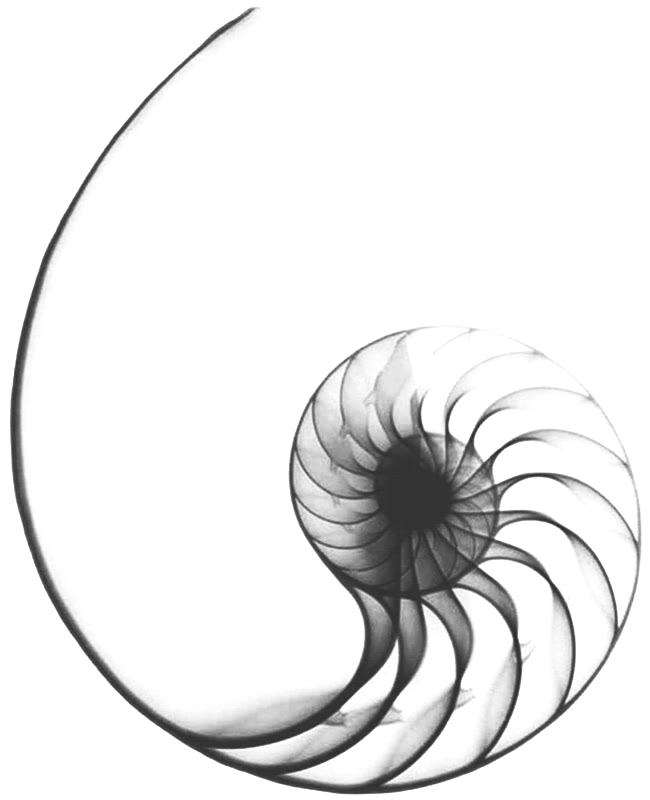
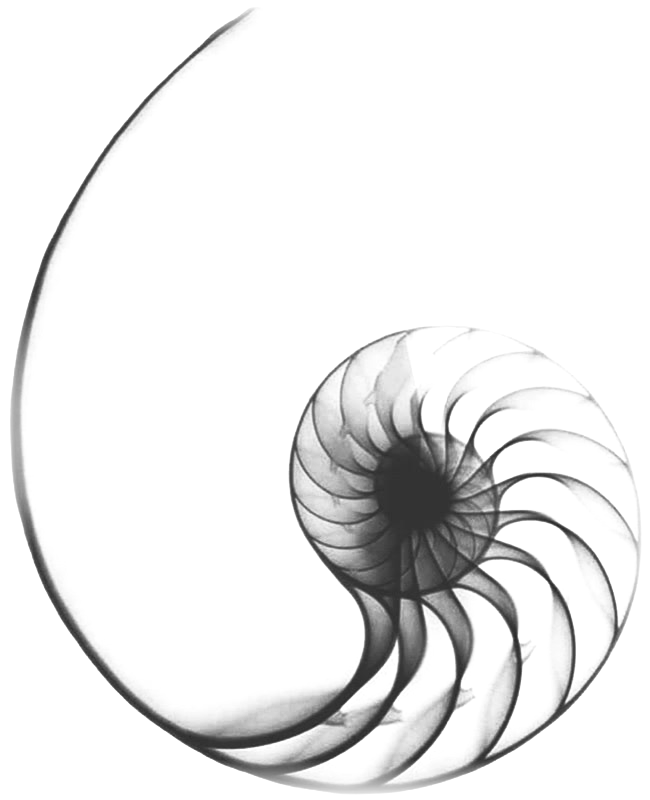
Вторая волна объектов: +6 деко, крупные лепестки, растушёвка краёв, чекер по тексту

diff --git a/index.html b/index.html
@@ -1257,10 +1257,9 @@ hr.hair.is-in{transform:scaleX(1)}
 .orn--noline .orn__fig::before{display:none}
 @media(max-width:700px){.orn__fig{width:calc(var(--orn-w,260px)*.55)}}
 
-.deco{position:absolute;pointer-events:none;width:var(--dw,220px);mix-blend-mode:multiply}
-.deco img{width:100%;height:auto;display:block;filter:grayscale(1) contrast(1.05)}
-.deco--photo img{filter:none}
-@media(max-width:700px){.deco{width:calc(var(--dw,220px)*.5)}}
+.deco{position:absolute;pointer-events:none;width:var(--dw,220px)}
+.deco img{width:100%;height:auto;display:block;opacity:.92}
+@media(max-width:700px){.deco{display:none}}
 
 /* Видео «Метод в действии» — говорящая голова со звуком, стартует по клику */
 .method-video{border-radius:var(--r-lg);overflow:hidden;background:var(--burgundy-deep);
@@ -1351,6 +1350,7 @@ hr.hair.is-in{transform:scaleX(1)}
 
 <!-- ============ БЛОК 2. ПОЧЕМУ ВОЗНИКАЕТ ЗАСТОЙ ============ -->
 <section class="sec sec--open" id="o-kurse">
+  <div class="deco" style="--dw:150px;left:42%;bottom:36px" aria-hidden="true"><img src="assets/ornaments/orn-bud.png" alt="" loading="lazy" decoding="async"></div>
   <div class="wrap">
     <div class="split split--top">
       <div>
@@ -1471,7 +1471,7 @@ hr.hair.is-in{transform:scaleX(1)}
   </div>
 </section>
 
-<div class="orn orn--l" style="--orn-w:300px;--ox:8vw;--gap:clamp(160px,18vw,260px)" aria-hidden="true">
+<div class="orn orn--l" style="--orn-w:340px;--ox:8vw;--gap:clamp(190px,20vw,300px)" aria-hidden="true">
   <div class="orn__fig"><img src="assets/ornaments/orn-nautilus.png" alt="" loading="lazy" decoding="async"></div>
 </div>
 <!-- ============ БЛОК 6. ЧТО ВЫ РЕАЛЬНО БУДЕТЕ УМЕТЬ ============ -->
@@ -1517,6 +1517,7 @@ hr.hair.is-in{transform:scaleX(1)}
 
 <!-- ============ БЛОК 8. ТРИ РЕАЛЬНЫЕ СИТУАЦИИ ============ -->
 <section class="sec">
+  <div class="deco" style="--dw:160px;top:calc(var(--sec-pt,var(--sp-8)) - 14px);right:2vw" aria-hidden="true"><img src="assets/ornaments/orn-moth.png" alt="" loading="lazy" decoding="async"></div>
   <div class="guides"><i></i><i></i><i></i></div>
   <div class="wrap">
     <div class="head head--c rv">
@@ -1562,7 +1563,7 @@ hr.hair.is-in{transform:scaleX(1)}
   </section>
 
 
-<div class="orn orn--r" style="--orn-w:230px;--ox:7vw;--gap:clamp(150px,16vw,240px)" aria-hidden="true">
+<div class="orn orn--r" style="--orn-w:260px;--ox:7vw;--gap:clamp(170px,18vw,270px)" aria-hidden="true">
   <div class="orn__fig"><img src="assets/ornaments/orn-calla.png" alt="" loading="lazy" decoding="async"></div>
 </div>
 <!-- ============ БЛОК 9. МЕТОД АННЫ РОМЕО ============ -->
@@ -1617,7 +1618,7 @@ hr.hair.is-in{transform:scaleX(1)}
       </div>
     </div>
 
-    <p class="eyebrow eyebrow--lg mt-l">Портфолио проектов</p>
+    <p class="eyebrow eyebrow--lg mt-l" style="position:relative">Портфолио проектов<span class="deco" style="--dw:190px;right:-9vw;top:-34px" aria-hidden="true"><img src="assets/ornaments/orn-raven.png" alt="" loading="lazy" decoding="async"></span></p>
     <div class="crsl rv" data-crsl>
       <div class="crsl__track" role="region" aria-label="Портфолио проектов" tabindex="0">
         <article class="crsl__slide crsl__slide--shot">
@@ -1901,6 +1902,7 @@ hr.hair.is-in{transform:scaleX(1)}
 
 <!-- ============ БЛОК 12. ПУТЬ ОБУЧЕНИЯ ============ -->
 <section class="sec sec--under" id="programma">
+  <div class="deco" style="--dw:210px;top:calc(var(--sec-pt,var(--sp-8)) - 6px);right:11vw" aria-hidden="true"><img src="assets/ornaments/orn-fig.png" alt="" loading="lazy" decoding="async"></div>
   <div class="wrap">
     <div class="head rv">
       <p class="eyebrow">Программа</p>
@@ -2054,6 +2056,7 @@ hr.hair.is-in{transform:scaleX(1)}
 
 <!-- ============ БЛОК 16. СЛЕДУЮЩАЯ СТУПЕНЬ ============ -->
 <section class="sec" id="stupen">
+  <div class="deco" style="--dw:390px;right:4vw;top:50px" aria-hidden="true"><img src="assets/ornaments/orn-petals.png" alt="" loading="lazy" decoding="async"></div>
   <div class="wrap wrap--mid">
     <div class="split split--60">
       <div>
@@ -2082,6 +2085,7 @@ hr.hair.is-in{transform:scaleX(1)}
 
 <!-- ============ БЛОК 18. FAQ ============ -->
 <section class="sec sec--open" id="faq">
+  <div class="deco" style="--dw:230px;top:calc(var(--sec-pt,var(--sp-8)) - 30px);right:1.5vw" aria-hidden="true"><img src="assets/ornaments/orn-disc.png" alt="" loading="lazy" decoding="async"></div>
   <div class="wrap wrap--mid">
     <div class="head rv">
       <p class="eyebrow">Вопросы</p>

diff --git a/HANDOFF.md b/HANDOFF.md
@@ -49,8 +49,18 @@
   (`--gap`) подобран под высоту объекта: объект не должен пересекать
   ни карточки, ни заголовки — чёрная гравюра на бордовой панели
   исчезает и выглядит «обрезанной». Пересечения проверяются скриптом
-  (isect.js в scratchpad сессии): каждый `.orn__fig` против
-  mosaic/card/h2/p/btn — обязан быть CLEAN на 1440 и 390 в webkit и chrome.
+  (isect.js в scratchpad сессии) по ТЕКСТОВЫМ прямоугольникам (Range, не бокс —
+  у заголовков max-width:15em и бокс шире текста): каждый объект против
+  h2/p/li/карточек — обязан быть CLEAN на 1440 и 390 в webkit и chrome.
+  Вторая волна (по правке Тимура «мало и робко»): +6 внутренних `.deco`
+  на десктопе (бутон, мотылёк, ворон у «Портфолио проектов», инжир, диск
+  у FAQ — приём с камнем у их FAQ, и КРУПНЫЕ лепестки 390px в пустой
+  колонке «Следующей ступени»); на мобильном deco скрыты — там нет боковых
+  полос, ритм держат 6 шовных объектов. Все PNG перепечены с растушёвкой
+  краёв (geq-виньетка альфы, виноград/камень — усиленный низ): обрез кадра
+  не должен заканчиваться прямой линией. В `<p>` объект вставлять только
+  `<span class="deco">` — div выталкивается парсером из абзаца и улетает
+  позиционироваться от секции.
 * **Два новых кейса** в «Васту в реальной жизни» (теперь пять каруселей):
   «Расчистила центр дома» (`assets/cases/center-*.jpg`) и «7 изменений по
   секторам» (`assets/cases/sectors-*.jpg`). Вотермарка REE STUDIO на обложке
